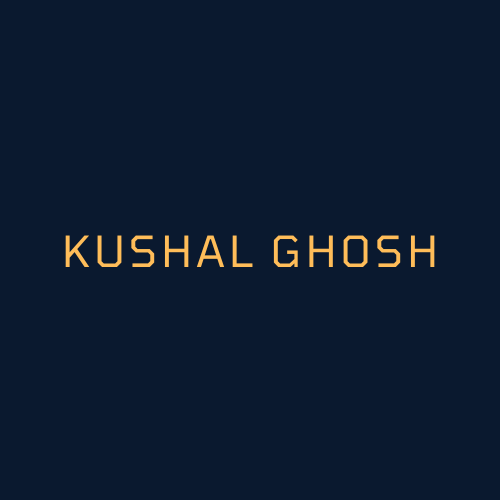
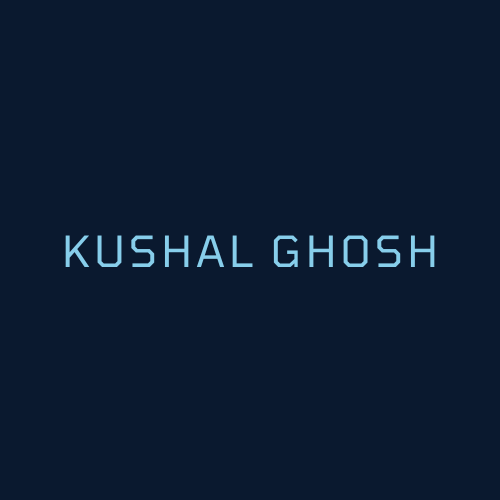
updated the assets section

Changed region(s): [[0.12, 0.45, 0.51, 0.54], [0.54, 0.45, 0.87, 0.54]]

diff --git a/src/components/Contact.jsx b/src/components/Contact.jsx
@@ -5,13 +5,13 @@ const Contact = () => {
         <div name='contact' className='w-full h-screen bg-[#0a192f] flex justify-center items-center p-4'>
             <form method="POST" action="https://getform.io/f/pagxwvkb" className='flex flex-col max-w-[600px] w-full'>
                 <div className='pb-8'>
-                    <p className='text-4xl font-bold inline border-b-4 border-[#ffbd59] text-gray-300'>Contact</p>
+                    <p className='text-4xl font-bold inline border-b-4 border-[#87CEEB] text-gray-300'>Contact</p>
                     <p className='text-gray-300 py-4'>Submit the form below or shoot me an email - ghoshkushalcse@gmail.com</p>
                 </div>
                 <input className='bg-[#ccd6f6] p-2' type="text" placeholder='Name' name='name' />
                 <input className='my-4 p-2 bg-[#ccd6f6]' type="email" placeholder='Email' name='email' />
                 <textarea className='bg-[#ccd6f6] p-2' name="message" rows="10" placeholder='Message'></textarea>
-                <button className='text-white border-2 hover:bg-[#ffbd59] hover:border-[#ffbd59] px-4 py-3 my-8 mx-auto flex items-center'>Let's Collaborate</button>
+                <button className='text-white border-2 hover:bg-[#87CEEB] hover:border-[#87CEEB] px-4 py-3 my-8 mx-auto flex items-center'>Let's Collaborate</button>
             </form>
 
         </div>

diff --git a/src/components/Home.jsx b/src/components/Home.jsx
@@ -7,12 +7,12 @@ const Home = () => {
 
             {/* Container */}
             <div className='max-w-[1000px] mx-auto px-8 flex flex-col justify-center h-full'>
-                <p className='text-[#ffbd59]'>Hi, my name is</p>
+                <p className='text-[#87CEEB]'>Hi, my name is</p>
                 <h1 className='text-4xl sm:text-7xl font-bold text-[#ccd6f6]'>Kushal Ghosh</h1>
                 <h2 className='text-4xl sm:text-7xl font-bold text-[#8892b0]'>I'm a Front-End Developer.</h2>
                 <p className='text-[#8892b0] py-4 max-w-[700px]'>A passionate Front-End Developer dedicated to transforming innovative ideas into engaging digital experiences.</p>
                 <div>
-                    <button className='text-white group border-2 px-6 py-3 my-2 flex items-center hover:bg-[#ffbd59] hover:border-[#ffbd59]'>View Work
+                    <button className='text-white group border-2 px-6 py-3 my-2 flex items-center hover:bg-[#87CEEB] hover:border-[#87CEEB]'>View Work
                         <span className='group-hover:rotate-90 duration-300'>
                             <HiArrowNarrowRight className='ml-3' />
                         </span>

diff --git a/src/components/Skills.jsx b/src/components/Skills.jsx
@@ -13,7 +13,7 @@ const Skills = () => {
             {/* container */}
             <div className='max-w-[1000px] mx-auto p-4 flex flex-col justify-center w-full h-full '>
                 <div>
-                    <p className='text-4xl font-bold inline border-b-4 border-[#ffbd59]'>Skills</p>
+                    <p className='text-4xl font-bold inline border-b-4 border-[#87CEEB]'>Skills</p>
                 </div>
                 <div className='w-full grid grid-cols-2 sm:grid-cols-4 gap-4 text-center py-8'>
                     <div className='shadow-md shadow-[#040c16] hover:scale-110 duration-500'>

diff --git a/src/components/About.jsx b/src/components/About.jsx
@@ -5,7 +5,7 @@ const About = () => {
             <div className="flex flex-col justify-center items-center w-full h-full">
                 <div className='max-w-[1000px] w-full px-4 grid grid-cols-2 gap-8'>
                     <div className='sm:text-right pb-8 '>
-                        <p className='text-4xl font-bold inline border-b-4 border-[#ffbd59]'>About</p>
+                        <p className='text-4xl font-bold inline border-b-4 border-[#87CEEB]'>About</p>
                     </div>
                     <div>
                     </div>

diff --git a/src/components/Work.jsx b/src/components/Work.jsx
@@ -7,7 +7,7 @@ const Work = () => {
         <div name='work' className='bg-[#0a192f] w-full md:h-screen text-gray-300'>
             <div className='max-w-[1000px] mx-auto p-4 flex flex-col justify-center w-full h-full'>
                 <div className='pb-8'>
-                    <p className='text-4xl font-bold inline border-b-4 border-[#ffbd59]'>Work</p>
+                    <p className='text-4xl font-bold inline border-b-4 border-[#87CEEB]'>Work</p>
                 </div>
                 {/* container */}
                 <div
